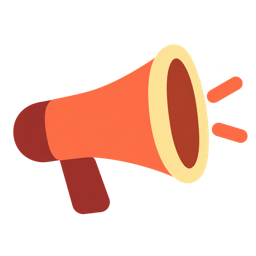
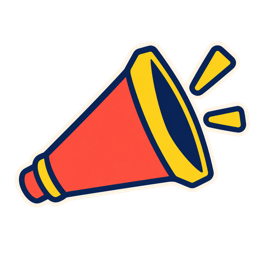
style(miniapp): 完善公告入口贴纸样式

diff --git a/apps/miniapp/tests/home-prototype.check.js b/apps/miniapp/tests/home-prototype.check.js
@@ -92,8 +92,8 @@ function checkStructure() {
   assert('结构 - 头部含搜索框', homeWxml.indexOf('class="search-box"') >= 0)
   assert('结构 - 搜索框为真实 input', /<input[\s\S]{0,400}?class="search-input"/.test(homeWxml))
   // 右上角小喇叭是「公告」入口，不是每日一句——每日一句已挪进蓝色倒计时卡
-  assert('结构 - 头部圆钮是公告入口', homeWxml.indexOf('class="hero-notice-btn"') >= 0)
-  assert('结构 - 公告圆钮绑定公告处理函数', homeWxml.indexOf('handleAnnouncementTap') >= 0)
+  assert('结构 - 头部展示公告入口', homeWxml.indexOf('class="hero-notice-btn"') >= 0)
+  assert('结构 - 公告入口绑定公告处理函数', homeWxml.indexOf('handleAnnouncementTap') >= 0)
   assert('结构 - 不再有「每日一句」圆钮', homeWxml.indexOf('hero-quote-btn') < 0)
 
   // 倒计时卡四种状态互斥，顺序必须是「已结束 → 就在今天 → 还有 N 天 → 未设置」。
@@ -127,10 +127,8 @@ function checkStructure() {
     '底部升起会被 tabBar 压住')
   assert('公告 - 弹窗顶部带喇叭徽标', homeWxml.indexOf('notice-badge') >= 0)
 
-  assert('公告 - 保留 84rpx 白色圆底',
-    /\.hero-notice-circle\s*\{[^}]*width:\s*84rpx[^}]*border-radius:\s*50%[^}]*background:\s*#ffffff/.test(homeWxss))
-  assert('公告 - 喇叭作为前景层越出圆底', /\.hero-notice-icon\s*\{[^}]*position:\s*absolute[^}]*z-index:\s*1[^}]*width:\s*96rpx/.test(homeWxss))
-  assert('公告 - 圆钮允许喇叭完整伸出', /\.hero-notice-btn\s*\{[^}]*overflow:\s*visible/.test(homeWxss))
+  assert('公告 - 喇叭直接浮于透明页头', !homeWxml.includes('hero-notice-circle') && !homeWxss.includes('.hero-notice-circle'))
+  assert('公告 - 喇叭素材透明且完整显示', /\.hero-notice-icon\s*\{[^}]*position:\s*absolute[^}]*width:\s*108rpx[^}]*height:\s*108rpx/.test(homeWxss) && /hero-notice-btn\s*\{[^}]*overflow:\s*visible/.test(homeWxss))
   assert('公告 - 使用生成的图片且按公告状态摇动',
     /<image[^>]*class="hero-notice-icon \{\{hasAnnouncements \? 'hero-notice-icon-active' : ''\}\}"[^>]*src="\/assets\/home\/announcement-megaphone.png"[^>]*mode="aspectFit"/.test(homeWxml))
   const megaphone = fs.readFileSync(path.join(MINIPROGRAM, 'assets/home/announcement-megaphone.png'))
@@ -141,8 +139,9 @@ function checkStructure() {
   assert('公告 - 定义了 notice-shake 关键帧', /@keyframes\s+notice-shake/.test(homeWxss))
   assert('公告 - 轻幅摇动及缩放循环', ['rotate(0deg) scale(1)', 'rotate(-6deg) scale(1.03)', 'rotate(5deg) scale(1.06)', 'rotate(-3deg) scale(1.03)'].every(frame => homeWxss.includes(frame)))
   assert('公告 - 点击热区至少 96rpx', /\.hero-notice-btn\s*\{[^}]*width:\s*96rpx[^}]*height:\s*96rpx/.test(homeWxss))
-  assert('公告 - 标签与圆底为独立固定层', homeWxml.includes('<view class="hero-notice-circle"></view>') && homeWxml.includes('<text class="hero-notice-label">公告</text>'))
-  assert('公告 - 按压只缩放圆底', /\.hero-notice-hover \.hero-notice-circle\s*\{\s*transform: scale\(0\.96\)/.test(homeWxss))
+  assert('公告 - 标签水平居中并固定在喇叭下方', homeWxml.includes('<text class="hero-notice-label">公告</text>') && /\.hero-notice-label\s*\{[^}]*left:\s*50%[^}]*transform:\s*translateX\(-50%\)/.test(homeWxss))
+  assert('公告 - 标签文案始终水平单行', /\.hero-notice-label\s*\{[^}]*white-space:\s*nowrap/.test(homeWxss))
+  assert('公告 - 按压入口时提供轻量反馈', /\.hero-notice-hover\s*\{\s*opacity:\s*0\.82/.test(homeWxss))
   assert('公告 - 展示公告列表与空态', homeWxml.includes('wx:for="{{announcements}}"') && homeWxml.includes('暂无公告'))
 
   // 顶部导航栏必须和头部同色，否则会出现用户截图里那条白色带

diff --git a/apps/miniapp/design/home-announcement.md b/apps/miniapp/design/home-announcement.md
@@ -1,22 +1,20 @@
 # 首页公告入口
 
-使用内置 imagegen 生成暖色扁平喇叭，运行素材为 `../miniprogram/assets/home/announcement-megaphone.png`，256 × 256 像素透明 PNG。主体采用珊瑚橙，口沿为奶油黄，把手和尾部为深砖红；短宽把手完整显示，右侧保留两条声波。
+首页右侧以透明 PNG 呈现漫画贴纸风格的筒状喇叭，素材位于 `../miniprogram/assets/home/announcement-megaphone.png`，输出 256 × 256 像素。珊瑚红筒身、明黄口沿与两条声波，以深蓝粗描边和奶油白外轮廓衔接蓝色页头。
+
+素材由内置 imagegen 生成并经用户选定，部署时等比缩小并保留透明通道。生成提示词要点：漫画贴纸图标、右上朝向的筒状喇叭、珊瑚红与明黄纯色块、深蓝粗描边、沿造型的奶油白外轮廓、两条声波、透明背景、小尺寸清晰可辨。
 
 ## 布局与交互
 
-- 点击热区 96 × 96rpx，白色圆底 84rpx 居中并带轻微投影，与搜索热区间隔 16rpx。
-- 喇叭为 96rpx 独立前景层，允许溢出；把手落在白圈内，喇叭口和声波越出圆底上缘及右缘。旋转中心按素材把手连接处设置为 `30% 61%`。
-- 右下角固定显示深砖红底、白字“公告”标签，和圆底共用点击入口。
-- 有可见公告时，喇叭以 1.4 秒周期持续摇动；关键帧角度依次为 `0° → -6° → +5° → -3° → 0°`，缩放依次为 `100% → 103% → 106% → 103% → 100%`。无公告时静止。
-- 按压只将圆底缩放至 96%，标签位置保持固定；关闭弹窗后仍按 `hasAnnouncements` 决定动画。
-- 公告弹窗沿用列表与空态，使用同一张喇叭素材。
+- 点击热区 96 × 96rpx，与搜索框保持 16rpx 间隔。
+- 喇叭为 108rpx 前景图片，透明背景直接叠在蓝色页头；摇动支点位于窄口尾端 `10% 72%`。
+- “公告”采用奶油白贴纸标签，配深蓝描边与粗体文字；尺寸为 68 × 36rpx，文字为 22rpx，水平居中并固定在热区底部。
+- 有可见公告时，喇叭以 1.4 秒周期持续摇动；角度依次为 `0° → -6° → +5° → -3° → 0°`，缩放依次为 `100% → 103% → 106% → 103% → 100%`。无公告时静止。
+- 点击时入口短暂降低不透明度；关闭弹窗后仍按 `hasAnnouncements` 决定是否动画。
+- 公告弹窗沿用公告列表与空态，并复用同一素材。
 
-首页采用自定义导航，品牌标题与系统胶囊同行。状态栏和标题栏高度由实际窗口信息、胶囊位置计算，搜索位于标题栏下方。
-
-## 素材生成规范
-
-透明背景、圆润厚实的扁平几何侧视图，喇叭口向右上约 10°；珊瑚橙主体（#FF714F）、奶油黄口沿（#FFE5A0）、深砖红把手与尾部（#982F28）。短宽把手，完整轮廓，两条短声波；大色块、简洁细节，适合 48px 显示。主体居中并留透明边距，白圈、文字标签和投影由页面绘制。
+首页采用自定义导航，品牌标题与系统胶囊同行；状态栏、导航栏高度由设备窗口和胶囊位置计算。
 
 ## 验证入口
 
-`node scripts/preview-home.cjs notice`（有公告）、`configured`（无公告）、`modal`（公告弹窗），输出保存在 `.tmp-preview/`。预览使用真实页面 WXSS 和公告 ViewModel 的测试数据。交互状态由 `tests/remote-data.check.js` 覆盖，布局、素材及动画规则由 `tests/home-prototype.check.js` 覆盖。
+`node scripts/preview-home.cjs notice`（有公告）、`configured`（无公告）、`modal`（公告弹窗），输出保存在 `.tmp-preview/`。预览使用真实页面 WXSS 和公告 ViewModel 的测试数据；`tests/remote-data.check.js` 覆盖数据状态，`tests/home-prototype.check.js` 覆盖布局、素材和动画规则。

diff --git a/docs/miniapp-integration-verification.md b/docs/miniapp-integration-verification.md
@@ -35,10 +35,12 @@
 ## 首页页头与公告提示
 
 - 开发者工具完整重新编译后，品牌标题与胶囊同行，顶部布局已目视核对。首页 122 项检查通过，覆盖刘海屏、安卓屏幕、零状态栏及胶囊尺寸缺失。
-- 暖色喇叭、白色圆底、固定“公告”标签已在开发者工具重新编译后目视核对。点击热区 96rpx，圆底 84rpx；隔离预览实测热区宽 48px，与搜索间隔 8px。
+- 公告喇叭采用用户选定的漫画贴纸素材，珊瑚红筒身、明黄口沿、深蓝描边与奶油白外轮廓在蓝色页头完整显示。下方为水平居中的奶油白贴纸标签，使用深蓝描边和粗体文字；点击热区 96rpx，隔离预览实测宽 48px，与搜索间隔 8px。
 - 有公告的隔离预览中，持续动画周期为 1.4 秒，包含 -6° 至 +5° 旋转与 100% 至 106% 缩放；两次采样的变换矩阵不同。无公告预览的动画为 `none`。29 组小程序自检及微信 WXML/WXSS 编译通过。
 - 开发者工具通过控制台临时设置页面公告状态，核对动画两帧、打开弹窗、关闭后恢复底栏；临时内容只存在页面内存，检查后已恢复 `hasAnnouncements: false` 和空公告列表。独立预览与开发者工具截图保存在 `.tmp-preview/announcement-warm-*.png`，自检日志为 `.tmp-preview/announcement-warm-checks.log`。
 - 当前实际客户端显示“暂无公告”。开发者工具同时提示普通 AppID 下的 `ext.json` 未生效，实际客户端的接口地址配置仍需修正；有公告时的真机效果待验收。
+- 漫画贴纸素材及奶油贴纸标签接入后，29 组自检及微信 WXML/WXSS 编译再次通过。隔离预览确认标签中心与热区中心均为 333px，有公告时两次采样的喇叭变换矩阵不同，标签和无公告状态的动画均为 `none`；截图为 `.tmp-preview/announcement-cream-home.png` 和 `announcement-cream-active.png`，日志为 `.tmp-preview/announcement-cream-checks.log`。选样对比保存在 `.tmp-preview/announcement-label-concepts/`。
+
 ## 使用与后续验收
 
 - 本机接口配置见[小程序 README](../apps/miniapp/README.md)，连接参数填写在忽略的扩展配置中。真实微信登录需要官方身份配置、合法域名与可访问的 HTTPS 服务。
